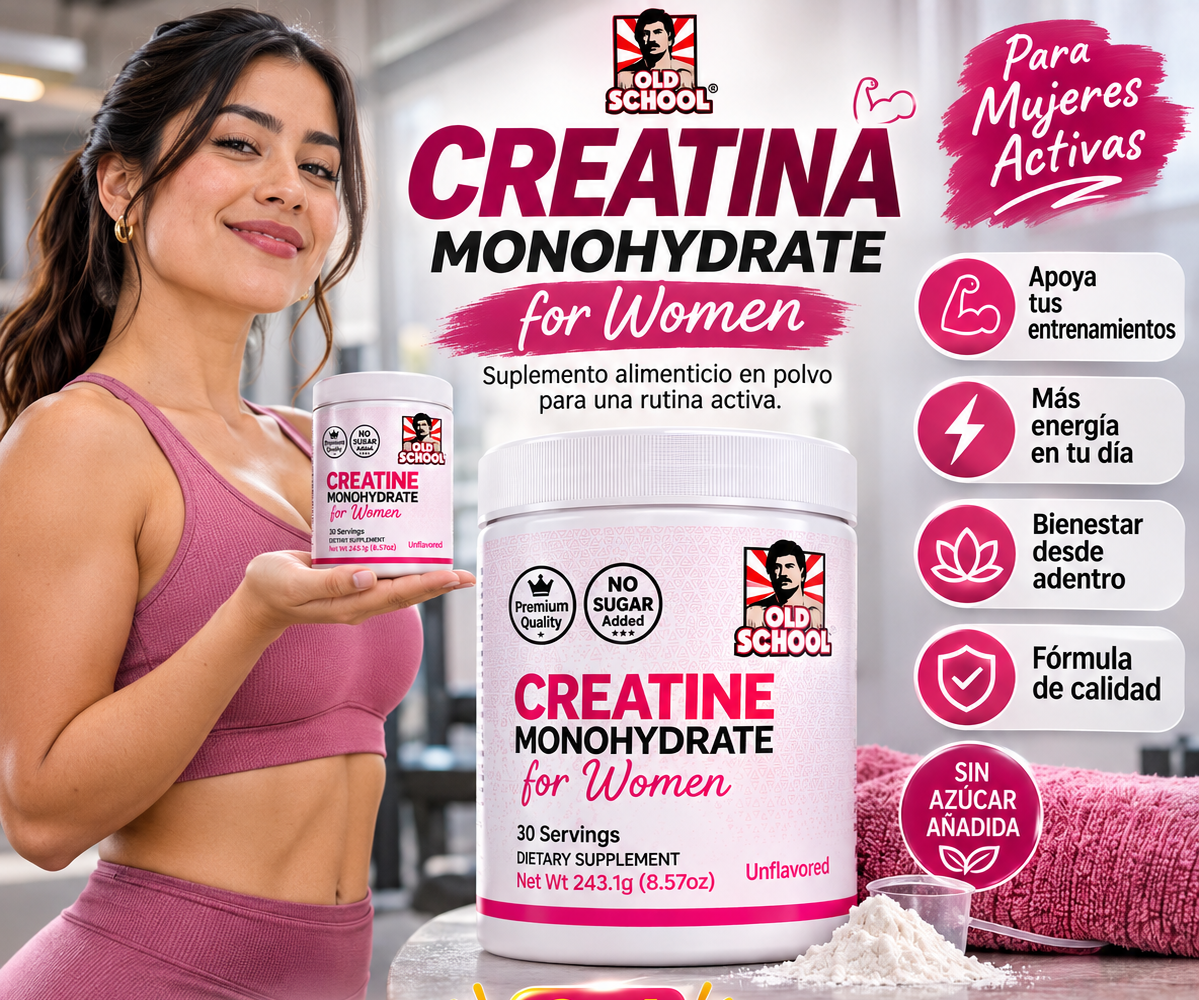
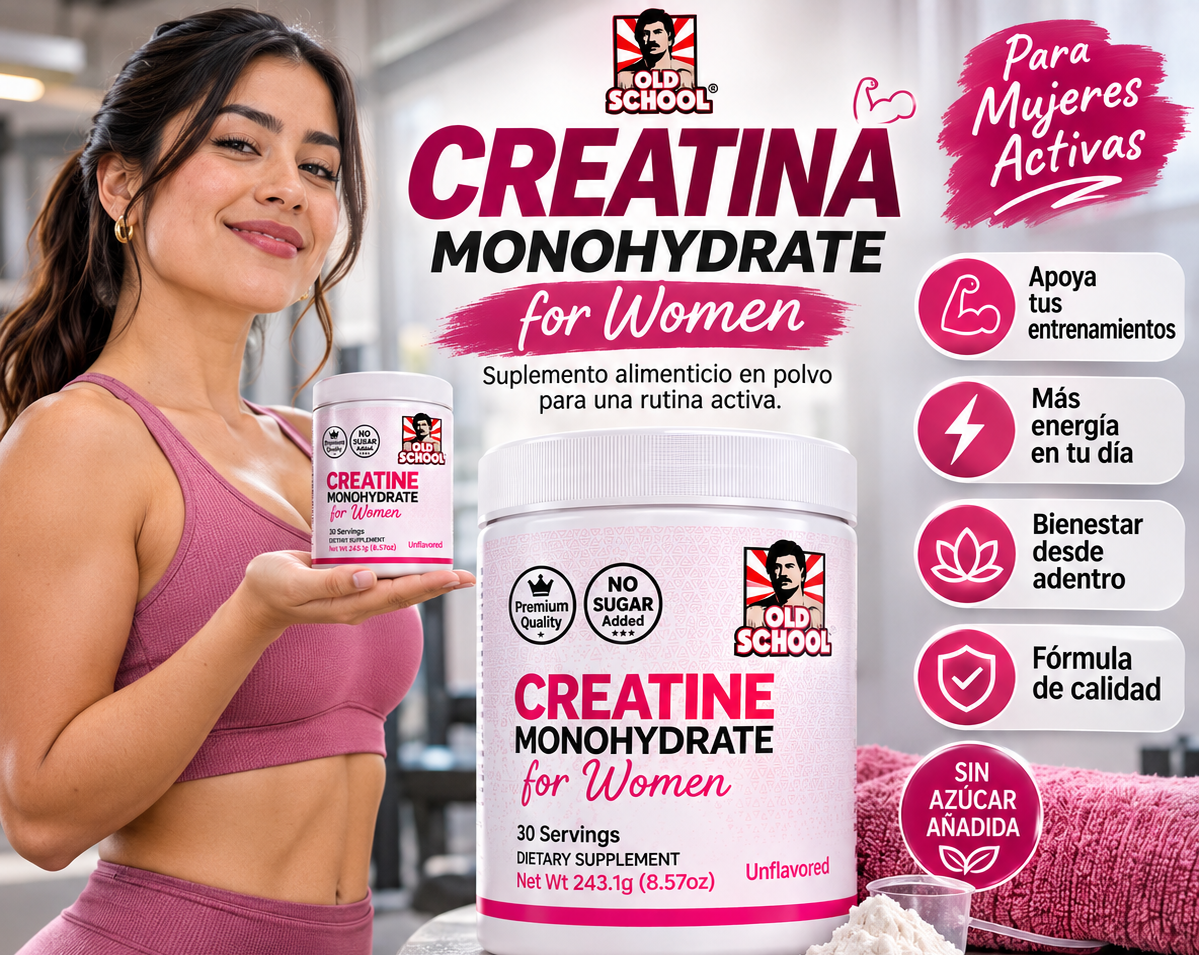
Creatine page: top photos fill the frame (frame takes each photo's shape), main photo cut above the reference's 2x1 badge

diff --git a/js/products.js b/js/products.js
@@ -976,7 +976,6 @@ const PRODUCTS = [
     // Photos of the reference page, original files (the 1st one cut above its Guatemala prices)
     image: "images/crea-main.png",
     images: ["images/crea-main.png", "images/crea-casa.png", "images/crea-medida.png", "images/crea-batido.png", "images/crea-cocina.png"],
-    squarePhotos: true,
     description: "El suplemento más estudiado del mundo, ahora pensado para ti. Creatina + colágeno + BCAAs en una medida. Sin sabor y sin azúcar.",
     // The user wants 2 choices: 1 or 2 tarros
     offers: [

diff --git a/css/glam.css b/css/glam.css
@@ -205,3 +205,7 @@ body.layout-glam h1 { font-family: "Inter", system-ui, sans-serif; font-weight: 
 .gl-reviews strong { font-size: .92rem; }
 .gl-reviews strong small { color: #6b5d66; font-weight: 600; }
 .gl-verified { color: #1d8a4c; font-size: .78rem; font-weight: 700; }
+
+/* Top photos: the frame takes each photo's own shape, so the photo fills it (no white bands) */
+body.layout-glam .gallery__main { aspect-ratio: auto; border: 0; }
+body.layout-glam .gallery__main img { display: block; height: auto; object-fit: initial; }
